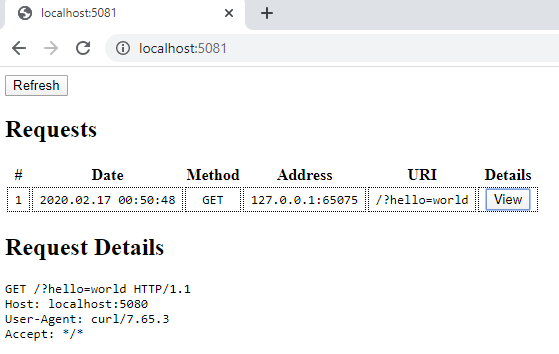
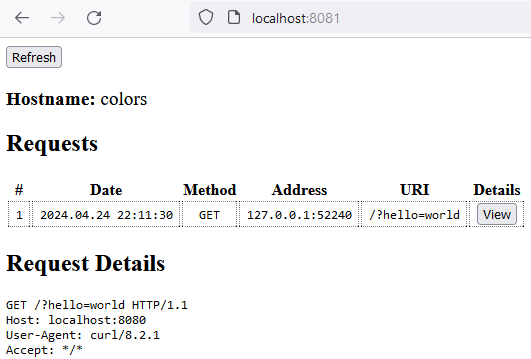
update docs

diff --git a/readme.md b/readme.md
@@ -27,10 +27,10 @@ $ ./webecho --webport 9999 --adminport 10000
 
 Making a simple request
 ```
-$ curl -s localhost:5080?hello=world
+$ curl -s localhost:8080?hello=world
 GET /?hello=world HTTP/1.1
-Host: localhost:5080
-User-Agent: curl/7.65.3
+Host: localhost:8080
+User-Agent: curl/8.2.1
 Accept: */*
 ```
 
@@ -39,8 +39,8 @@ Also shown in the log
 2020/02/17 00:48:33 WEB: [127.0.0.1:64939] /:
 
 GET /?hello=world HTTP/1.1
-Host: localhost:5080
-User-Agent: curl/7.65.3
+Host: localhost:8080
+User-Agent: curl/8.2.1
 Accept: */*
 ```
 
